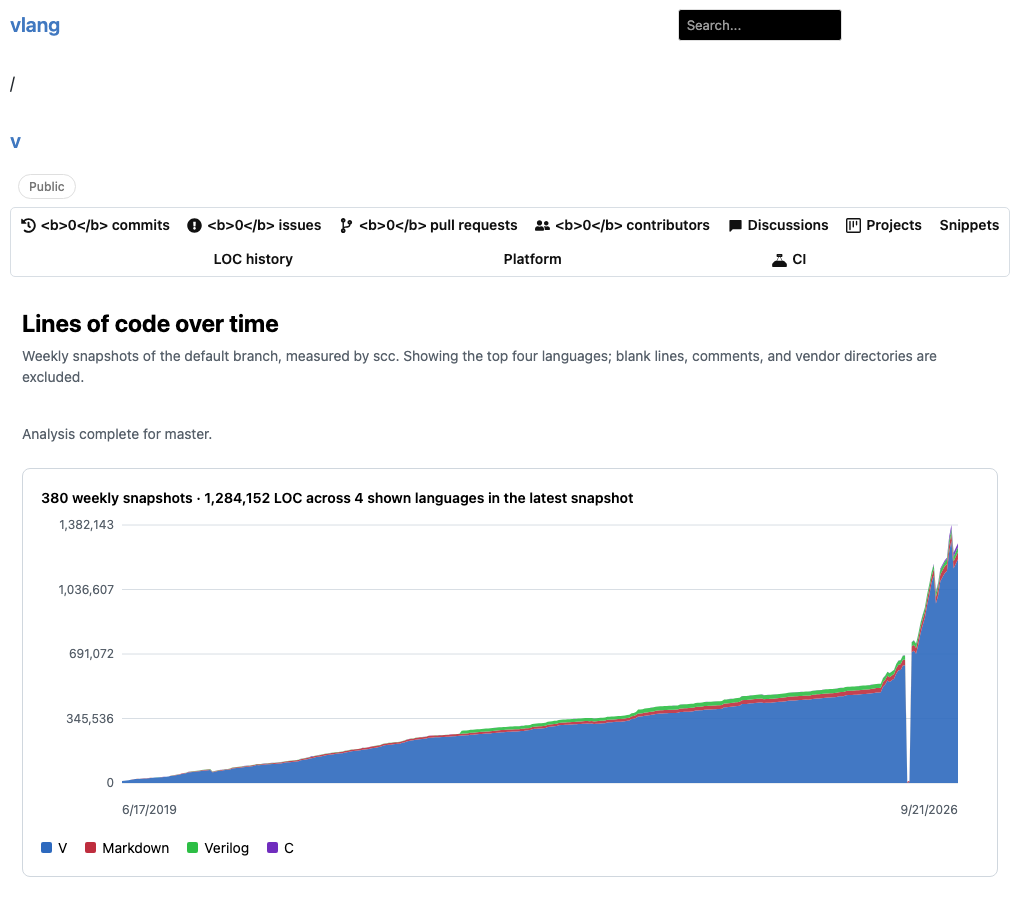
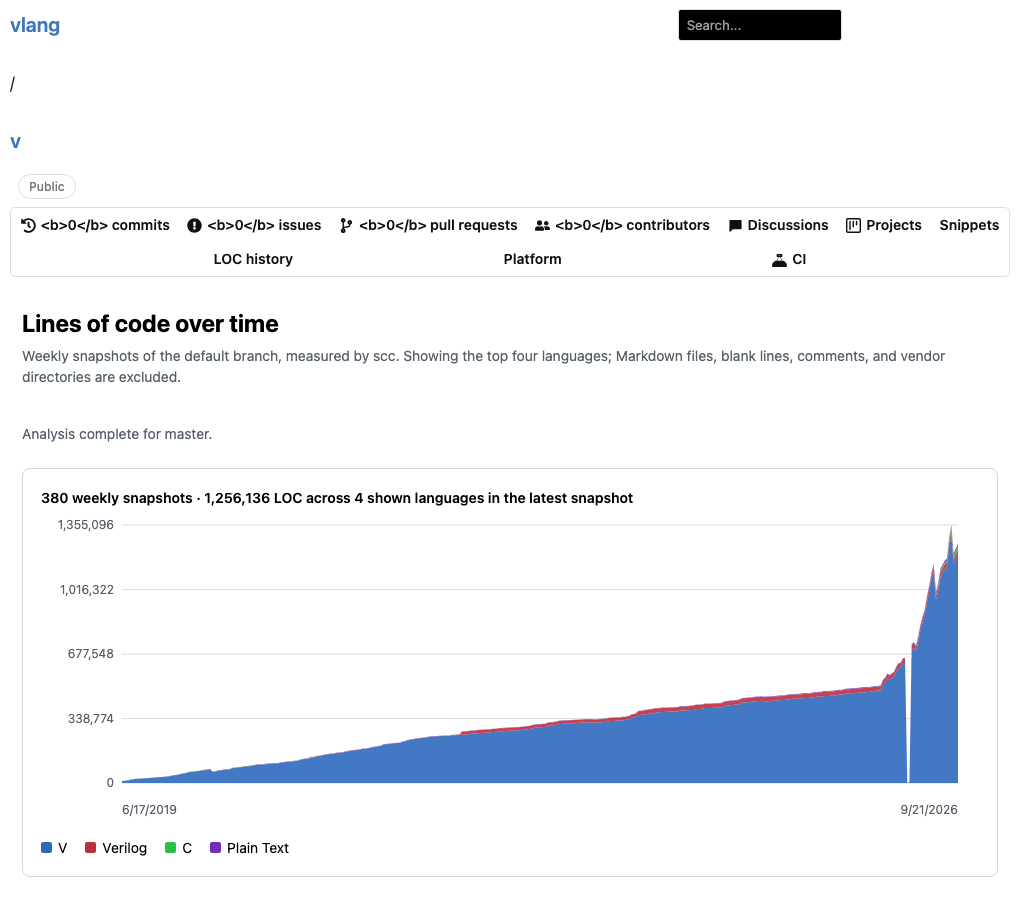
Exclude Markdown from repository LOC history

diff --git a/templates/repo/loc_history.html b/templates/repo/loc_history.html
@@ -12,7 +12,7 @@
 				<div class="loc-history__heading">
 					<div>
 						<h1>Lines of code over time</h1>
-						<p>Weekly snapshots of the default branch, measured by scc. Showing the top four languages; blank lines, comments, and vendor directories are excluded.</p>
+						<p>Weekly snapshots of the default branch, measured by scc. Showing the top four languages; Markdown files, blank lines, comments, and vendor directories are excluded.</p>
 					</div>
 					@if can_run
 						<form action="/@repo.user_name/@repo.name/loc" method="post" id="loc-start-form">

diff --git a/static/js/loc_history.js b/static/js/loc_history.js
@@ -24,6 +24,7 @@
     const languageRows = data.languages;
     const bySnapshot = new Map(snapshots.map(snapshot => [snapshot.id, new Map()]));
     for (const row of languageRows) {
+      if (row.name === "Markdown") continue;
       const counts = bySnapshot.get(row.snapshot_id);
       if (!counts) continue;
       const name = row.name === "C Header" ? "C" : row.name;
